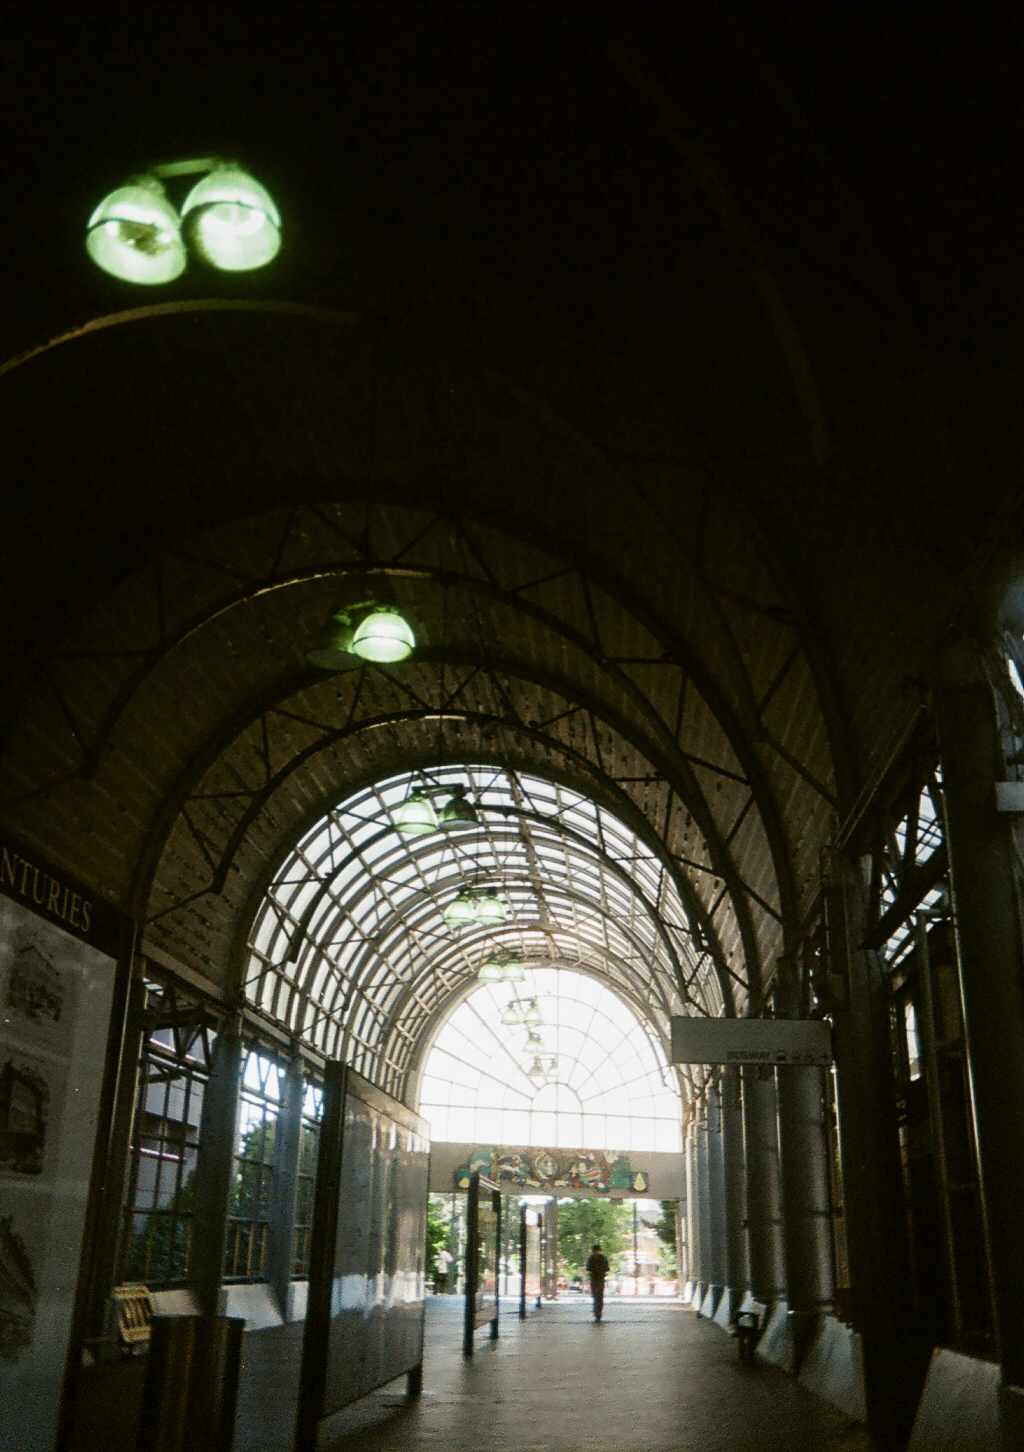
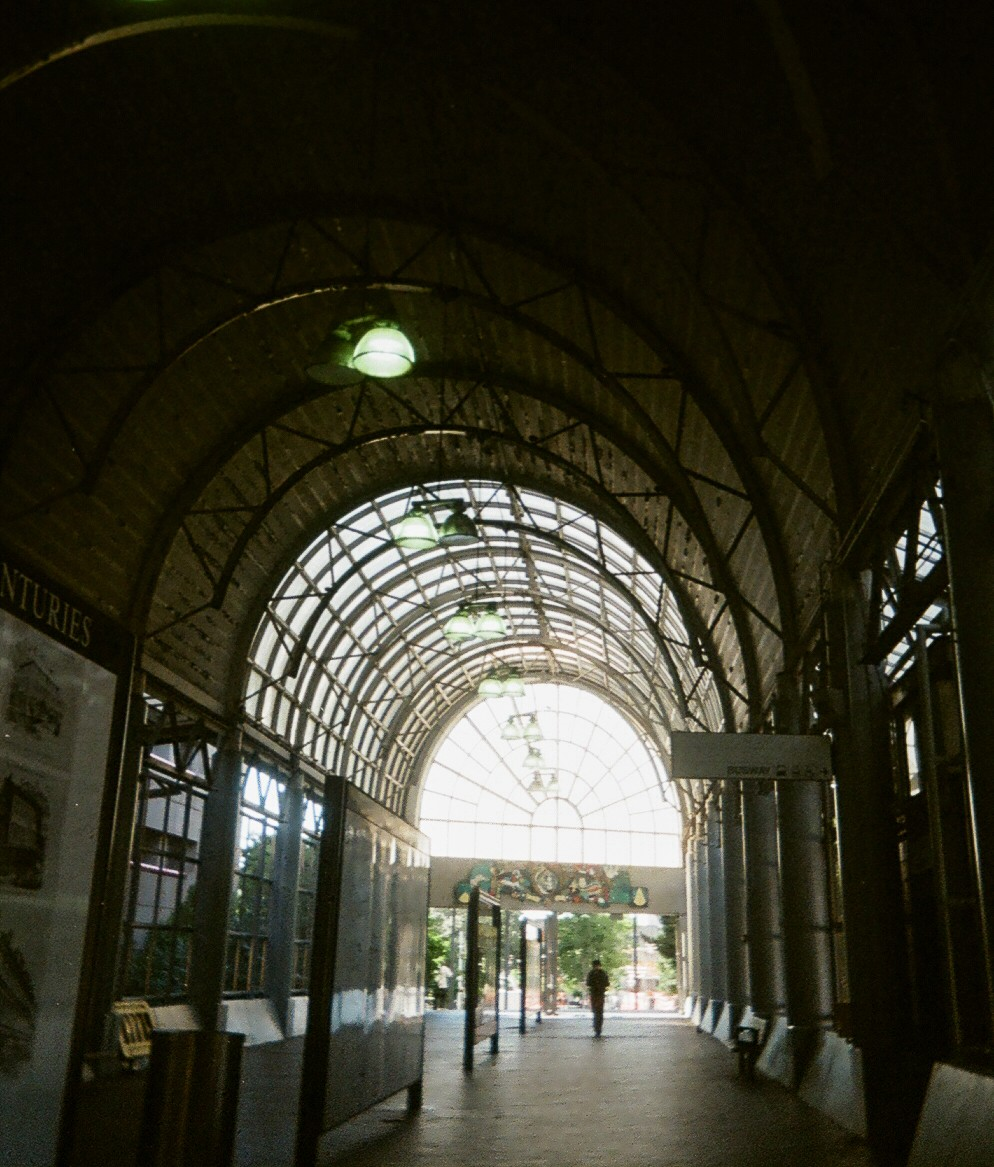
Peru Film

diff --git a/pages/film.html b/pages/film.html
@@ -212,6 +212,24 @@
         </div>
     </section>
 
+    <!-- ===================== ICA ===================== -->
+    <section class="photo-gallery">
+        <div class="photo-dcontainer">
+            <div class="gtitle"><h4>- Ica, Peru -</h4></div>
+            <div class="photo-gallery">
+                <div class="gcolumn">
+                    <div class="gphoto"><img src="../Assets/portfolio/film/peru/ica/12970022.jpg" alt="PERU FILM" loading="lazy"></div>
+                </div>
+                <div class="gcolumn">
+                    <div class="gphoto"><img src="../Assets/portfolio/film/peru/ica/12970024-2.jpg" alt="PERU FILM" loading="lazy"></div>
+                </div>
+                <div class="gcolumn">
+                    <div class="gphoto"><img src="../Assets/portfolio/film/peru/ica/12970030-2.jpg" alt="PERU FILM" loading="lazy"></div>
+                </div>
+            </div>
+        </div>
+    </section>
+
     <!-- ===================== ICELAND – SNAEFELLSJOKULL ===================== -->
     <section class="photo-gallery">
         <div class="photo-dcontainer">
@@ -221,14 +239,16 @@
                     <div class="gphoto"><img src="../Assets/portfolio/film/iceland/snaefellsjkull/000033650031.jpg" alt="Iceland film photo" loading="lazy"></div>
                 </div>
                 <div class="gcolumn">
-                    <div class="gphoto"><img src="../Assets/portfolio/film/iceland/snaefellsjkull/000033650035.jpg" alt="Iceland film photo" loading="lazy"></div>
+                    <div class="gphoto"><img src="../Assets/portfolio/film/iceland/snaefellsjkull/000033650059.jpg" alt="Iceland film photo" loading="lazy"></div>
                 </div>
                 <div class="gcolumn">
-                    <div class="gphoto"><img src="../Assets/portfolio/film/iceland/snaefellsjkull/000033650059.jpg" alt="Iceland film photo" loading="lazy"></div>
+                    <div class="gphoto"><img src="../Assets/portfolio/film/iceland/snaefellsjkull/000033650035.jpg" alt="Iceland film photo" loading="lazy"></div>
                 </div>
             </div>
         </div>
     </section>
+
+    
 
     <!-- ===================== PITTSBURGH ===================== -->
     <section class="photo-gallery">
@@ -285,6 +305,25 @@
                 <div class="gcolumn">
                     <div class="gphoto"><img src="../Assets/portfolio/film/asia/elnido/250203232136-000028-2.jpg" alt="Palawan film photo" loading="lazy"></div>
                     <div class="gphoto"><img src="../Assets/portfolio/film/asia/elnido/250203232137-000014-2.jpg" alt="Palawan film photo" loading="lazy"></div>
+                </div>
+            </div>
+        </div>
+    </section>
+
+        <!-- ===================== MACHU ===================== -->
+    <section class="photo-gallery">
+        <div class="photo-dcontainer">
+            <div class="gtitle"><h4>- Machu Picchu, Peru -</h4></div>
+            <div class="photo-gallery">
+                <div class="gcolumn">
+                    <div class="gphoto"><img src="../Assets/portfolio/film/peru/machu/12980017-2.jpg" alt="PERU FILM" loading="lazy"></div>
+                </div>
+                <div class="gcolumn">
+                    <div class="gphoto"><img src="../Assets/portfolio/film/peru/machu/12980028.jpg" alt="PERU FILM" loading="lazy"></div>
+                    <div class="gphoto"><img src="../Assets/portfolio/film/peru/machu/12980023-2.jpg" alt="PERU FILM" loading="lazy"></div>
+                </div>
+                <div class="gcolumn">
+                    <div class="gphoto"><img src="../Assets/portfolio/film/peru/machu/12980012.jpg" alt="PERU FILM" loading="lazy"></div>
                 </div>
             </div>
         </div>
@@ -714,6 +753,25 @@
         </div>
     </section>
 
+        <!-- ===================== Ollytaytambo ===================== -->
+    <section class="photo-gallery">
+        <div class="photo-dcontainer">
+            <div class="gtitle"><h4>- Ollytaytambo, Peru -</h4></div>
+            <div class="photo-gallery">
+                <div class="gcolumn">
+                    <div class="gphoto"><img src="../Assets/portfolio/film/peru/olly/12990020.jpg" alt="Angkor Wat film photo" loading="lazy"></div>
+                </div>
+                <div class="gcolumn">
+                    <div class="gphoto"><img src="../Assets/portfolio/film/peru/olly/12990021-2.jpg" alt="Angkor Wat film photo" loading="lazy"></div>
+                    <div class="gphoto"><img src="../Assets/portfolio/film/peru/olly/12990032.jpg" alt="Angkor Wat film photo" loading="lazy"></div>
+                </div>
+                <div class="gcolumn">
+                    <div class="gphoto"><img src="../Assets/portfolio/film/peru/olly/12990017-2.jpg" alt="Angkor Wat film photo" loading="lazy"></div>
+                </div>
+            </div>
+        </div>
+    </section>
+
     <!-- ===================== PHNOM PENH ===================== -->
     <section class="photo-gallery">
         <div class="photo-dcontainer">
@@ -741,17 +799,14 @@
             <div class="gtitle"><h4>- Boston, MA -</h4></div>
             <div class="photo-gallery">
                 <div class="gcolumn">
-                    <div class="gphoto"><img src="../Assets/portfolio/film/000102620007 (1).jpg" alt="Boston film photo" loading="lazy"></div>
                     <div class="gphoto"><img src="../Assets/portfolio/film/000454060063.jpg" alt="Boston film photo" loading="lazy"></div>
                 </div>
                 <div class="gcolumn">
                     <div class="gphoto"><img src="../Assets/portfolio/film/boston/000567000022.jpg" alt="Boston film photo" loading="lazy"></div>
-                    <div class="gphoto"><img src="../Assets/portfolio/film/000454060072.jpg" alt="Boston film photo" loading="lazy"></div>
                     <div class="gphoto"><img src="../Assets/portfolio/film/000454060002.jpg" alt="Boston film photo" loading="lazy"></div>
                 </div>
                 <div class="gcolumn">
                     <div class="gphoto"><img src="../Assets/portfolio/film/000102620074.jpg" alt="Boston film photo" loading="lazy"></div>
-                    <div class="gphoto"><img src="../Assets/portfolio/film/000454060069.jpg" alt="Boston film photo" loading="lazy"></div>
                 </div>
             </div>
         </div>
@@ -773,6 +828,24 @@
                 <div class="gcolumn">
                     <div class="gphoto"><img src="../Assets/portfolio/film/asia/kyoto/000828370022.jpg" alt="Kyoto film photo" loading="lazy"></div>
                     <div class="gphoto"><img src="../Assets/portfolio/film/asia/kyoto/000828390002.jpg" alt="Kyoto film photo" loading="lazy"></div>
+                </div>
+            </div>
+        </div>
+    </section>
+
+        <!-- ===================== LIMA ===================== -->
+    <section class="photo-gallery">
+        <div class="photo-dcontainer">
+            <div class="gtitle"><h4>- Lima, Peru -</h4></div>
+            <div class="photo-gallery">
+                <div class="gcolumn">
+                    <div class="gphoto"><img src="../Assets/portfolio/film/peru/lima/12970003-2.jpg" alt="PERU FILM" loading="lazy"></div>
+                </div>
+                <div class="gcolumn">
+                    <div class="gphoto"><img src="../Assets/portfolio/film/peru/lima/12970011.jpg" alt="PERU FILM" loading="lazy"></div>
+                </div>
+                <div class="gcolumn">
+                    <div class="gphoto"><img src="../Assets/portfolio/film/peru/lima/12970008-2.jpg" alt="PERU FILM" loading="lazy"></div>
                 </div>
             </div>
         </div>
@@ -876,7 +949,28 @@
         </div>
     </section>
     
-            <!-- ===================== St. Augustine ===================== -->
+    <!-- ===================== Cusco ===================== -->
+    <section class="photo-gallery">
+        <div class="photo-dcontainer">
+            <div class="gtitle"><h4>- Cusco, Peru -</h4></div>
+            <div class="photo-gallery">
+                <div class="gcolumn">
+                    <div class="gphoto"><img src="../Assets/portfolio/film/peru/cusco/13010016.jpg" alt="Angkor Wat film photo" loading="lazy"></div>
+                    <div class="gphoto"><img src="../Assets/portfolio/film/peru/cusco/13010011-2.jpg" alt="Angkor Wat film photo" loading="lazy"></div>
+                </div>
+                <div class="gcolumn">
+                    <div class="gphoto"><img src="../Assets/portfolio/film/peru/cusco/13010002-2.jpg" alt="Angkor Wat film photo" loading="lazy"></div>
+                    <div class="gphoto"><img src="../Assets/portfolio/film/peru/cusco/13010030-2.jpg" alt="Angkor Wat film photo" loading="lazy"></div>
+                </div>
+                <div class="gcolumn">
+                    <div class="gphoto"><img src="../Assets/portfolio/film/peru/cusco/13010014.jpg" alt="Angkor Wat film photo" loading="lazy"></div>
+                    <div class="gphoto"><img src="../Assets/portfolio/film/peru/cusco/13010032.jpg" alt="Angkor Wat film photo" loading="lazy"></div>
+                </div>
+            </div>
+        </div>
+    </section>
+
+    <!-- ===================== St. Augustine ===================== -->
             <section class="photo-gallery">
         <div class="photo-dcontainer">
             <div class="gtitle"><h4>- St. Augustine, FL -</h4></div>
